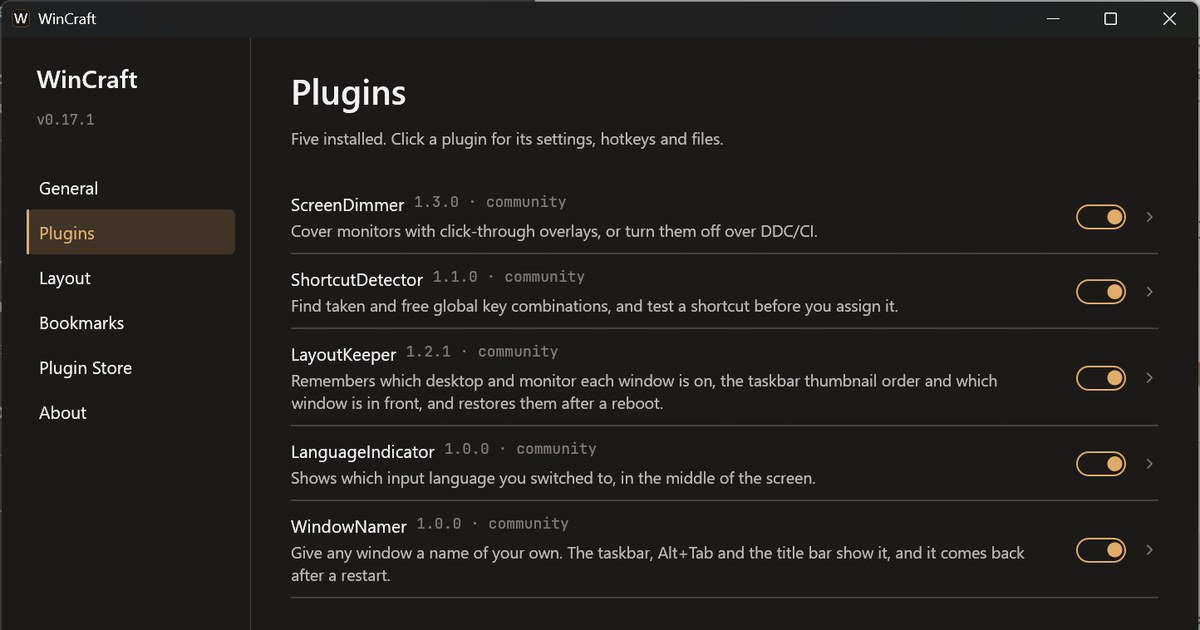
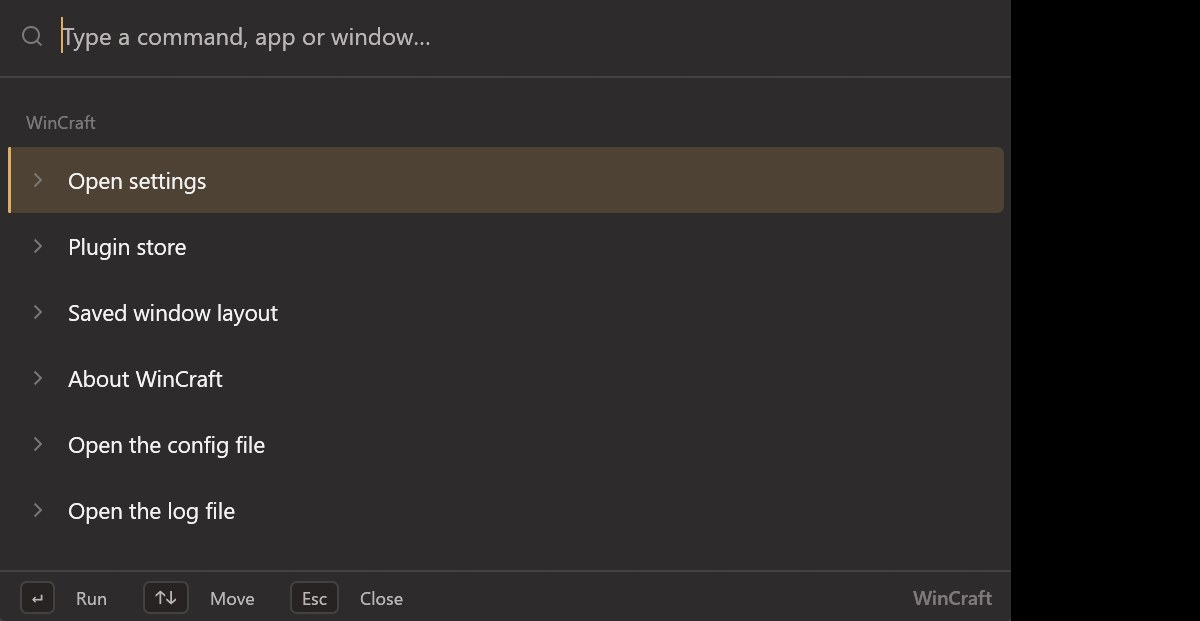
WinCraft: the command palette is the main picture
The user named the palette as WinCraft's main window, so their palette
shot leads the page, the link preview and the luminart.app card. The
Plugins page moves into the gallery and the General settings picture
is dropped to keep the gallery at four.

diff --git a/sites/wincraft/public/index.html b/sites/wincraft/public/index.html
@@ -14,7 +14,7 @@
 <meta property="og:site_name" content="Luminart">
 <meta property="og:image" content="https://wincraft.luminart.app/images/og.jpg">
 <meta property="og:image:width" content="1200">
-<meta property="og:image:height" content="630">
+<meta property="og:image:height" content="621">
 <meta name="twitter:card" content="summary_large_image">
 <link rel="icon" href="/icons/wincraft-32.png" sizes="32x32">
 <link rel="apple-touch-icon" href="/icons/wincraft-256.png">
@@ -58,7 +58,7 @@
     <section class="shot">
       <h2 class="visually-hidden">Screenshot</h2>
       <div class="window">
-        <img src="/images/hero.webp" alt="The WinCraft settings window on its Plugins page, listing the plugins with their options" width="1444" height="1007" loading="eager">
+        <img src="/images/hero.webp" alt="The WinCraft command palette: a search box over a list of WinCraft commands such as Open settings, Plugin store and Saved window layout" width="1011" height="621" loading="eager">
       </div>
     </section>
     <section class="gallery">
@@ -66,8 +66,8 @@
       <ul class="views">
         <li>
           <figure>
-            <div class="window"><img src="/images/command-palette.webp" alt="The command palette search box listing the prefixes it understands" width="1019" height="628" loading="lazy"></div>
-            <figcaption>Command palette: one search box for commands, apps, windows and files</figcaption>
+            <div class="window"><img src="/images/plugins.webp" alt="The WinCraft settings window on its Plugins page, listing the five plugins" width="1200" height="837" loading="lazy"></div>
+            <figcaption>Settings: five plugins, each with its own page</figcaption>
           </figure>
         </li>
         <li>
@@ -84,8 +84,8 @@
         </li>
         <li>
           <figure>
-            <div class="window"><img src="/images/settings.webp" alt="The General page of the WinCraft settings window" width="1200" height="837" loading="lazy"></div>
-            <figcaption>Settings: one window, a page per plugin</figcaption>
+            <div class="window"><img src="/images/command-palette.webp" alt="The command palette listing the prefixes it understands" width="1019" height="628" loading="lazy"></div>
+            <figcaption>Palette prefixes: windows, bookmarks, files, sums, terminal, web</figcaption>
           </figure>
         </li>
       </ul>
